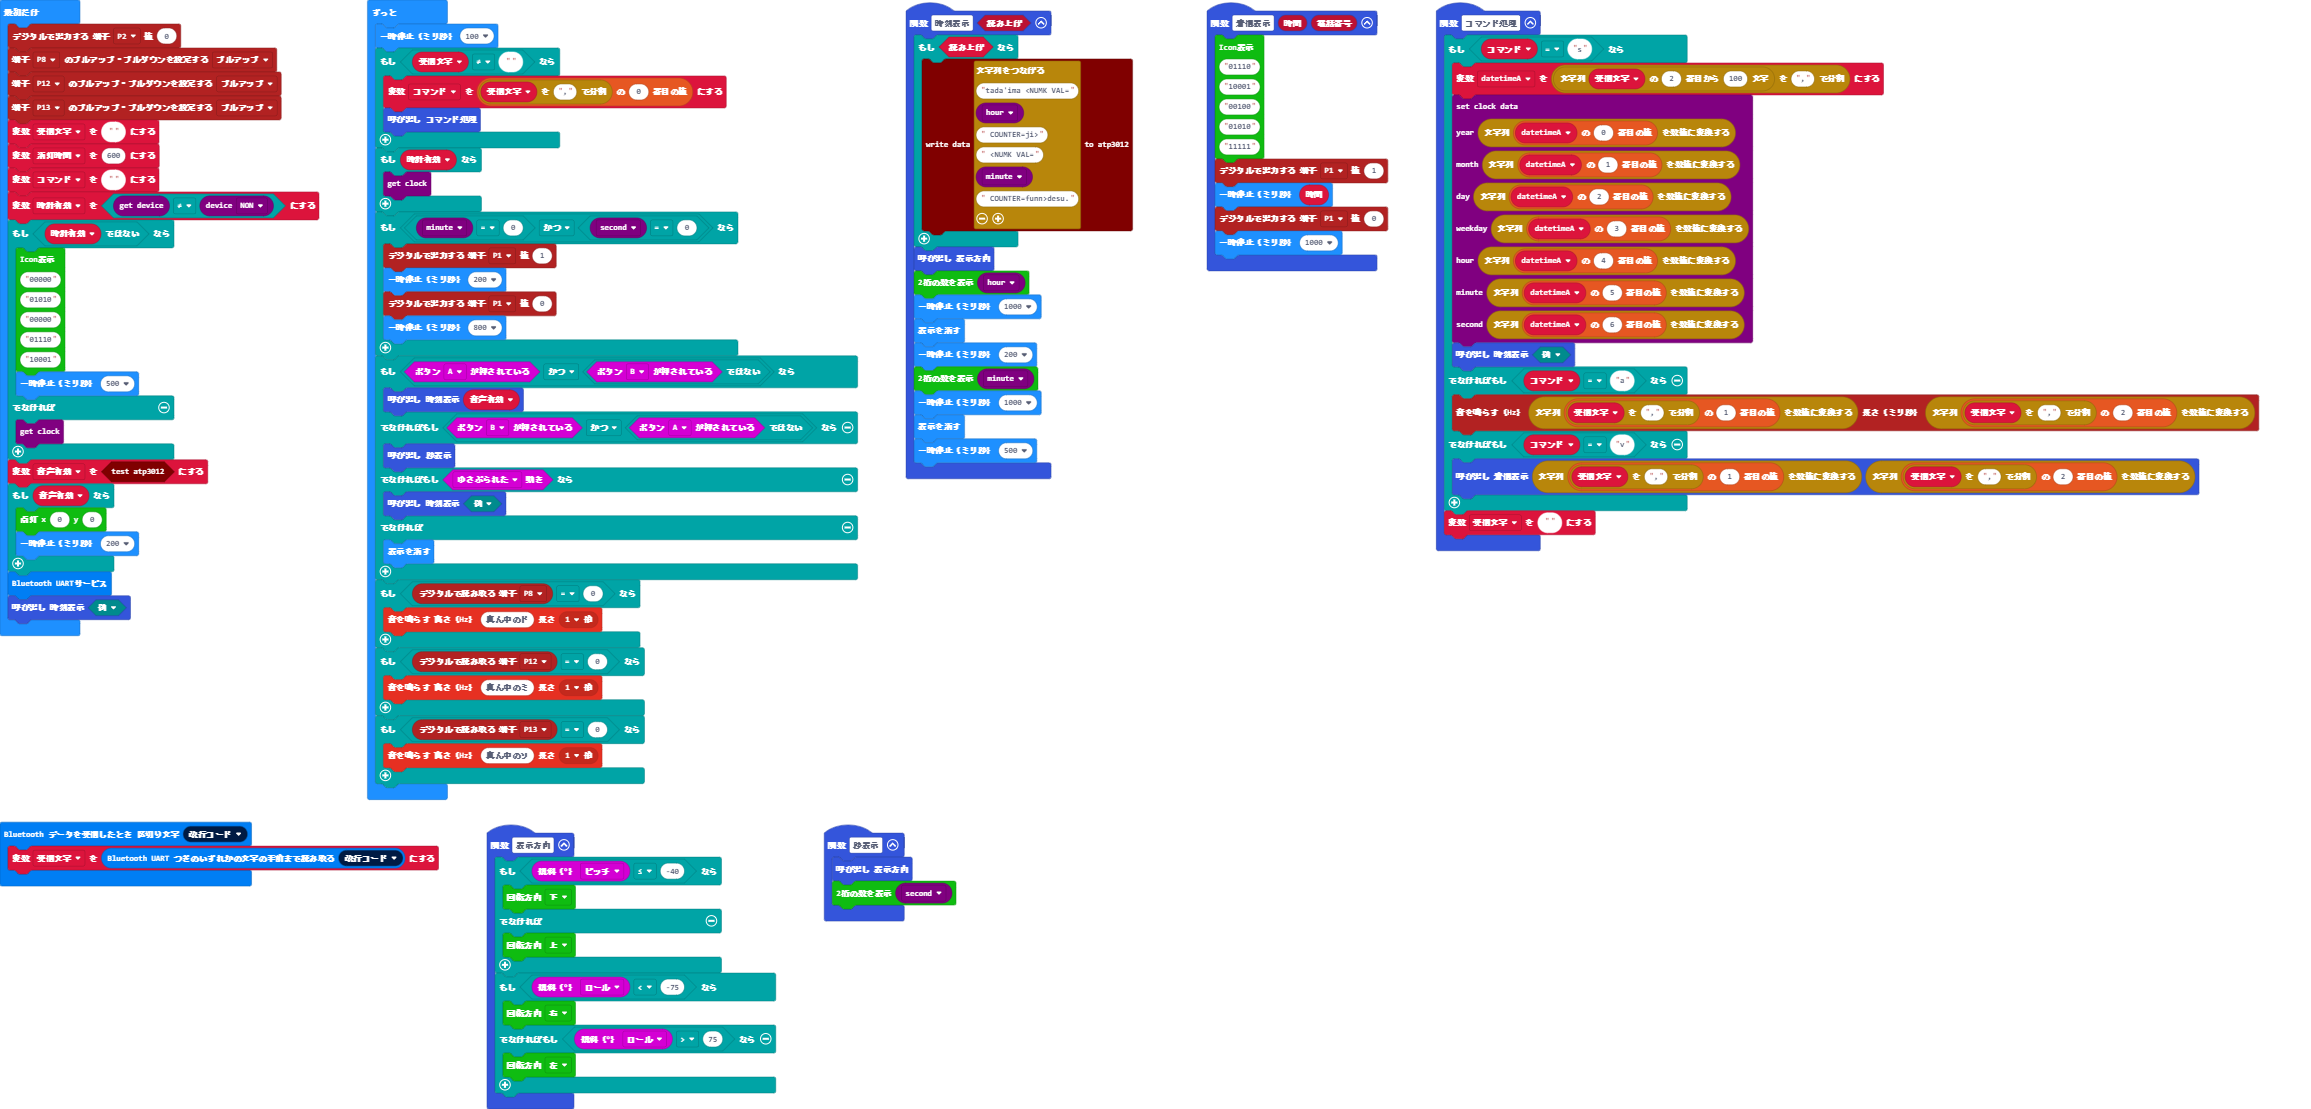
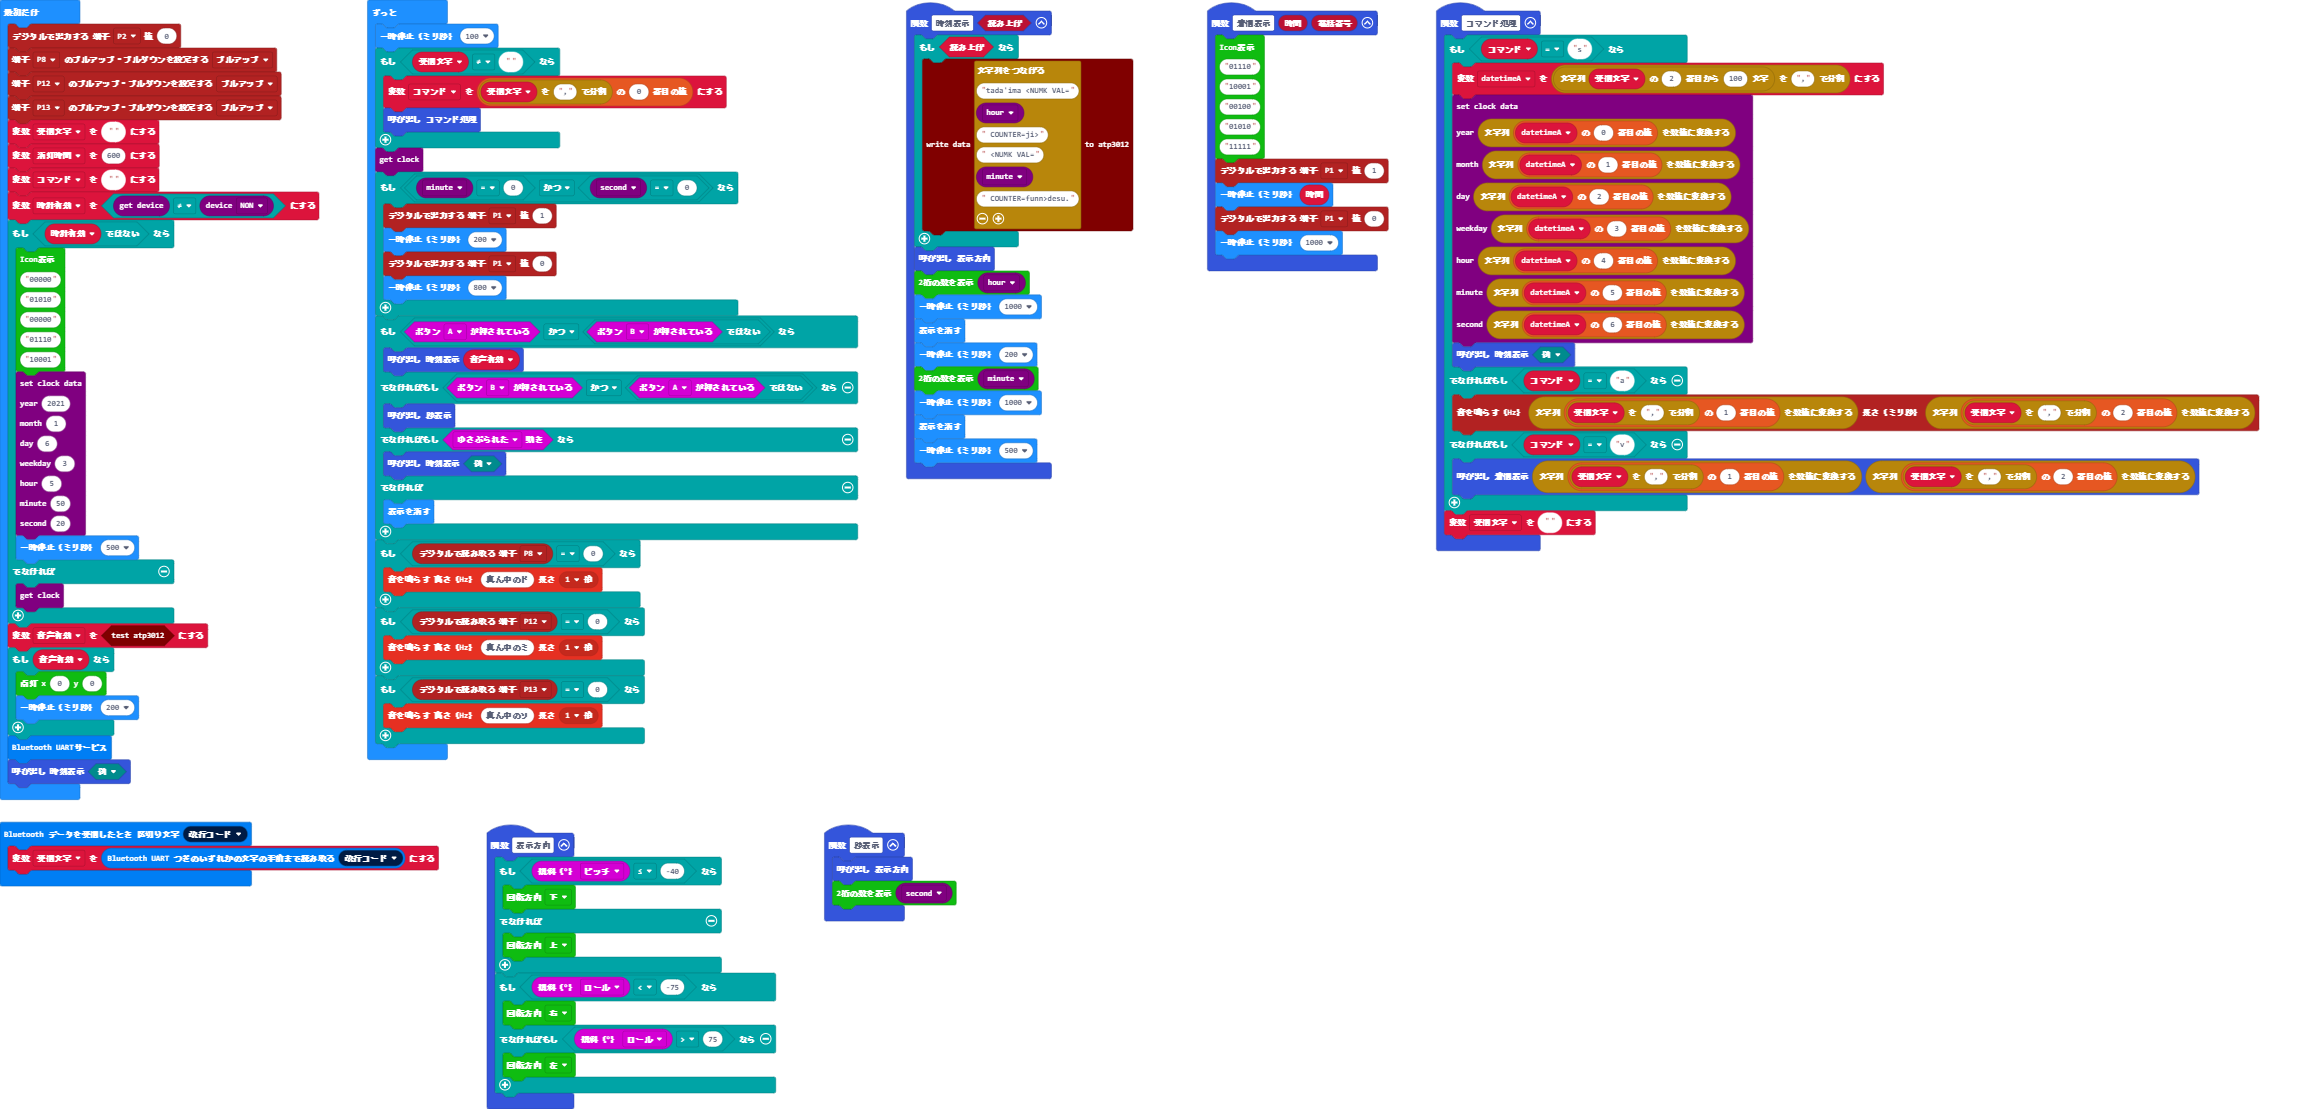
Update pxt.json, main.blocks, main.ts

Changed region(s): [[0.1558, 0.1226, 0.3739, 0.7358], [0.0, 0.3372, 0.0935, 0.7358]]

diff --git a/main.ts b/main.ts
@@ -83,6 +83,15 @@ if (!(時計有効)) {
     "01110",
     "10001"
     )
+    rtc.setClock(
+    2021,
+    1,
+    6,
+    3,
+    5,
+    50,
+    20
+    )
     basic.pause(500)
 } else {
     rtc.getClock()
@@ -100,9 +109,7 @@ basic.forever(function () {
         コマンド = 受信文字.split(",")[0]
         コマンド処理()
     }
-    if (時計有効) {
-        rtc.getClock()
-    }
+    rtc.getClock()
     if (rtc.getClockData(clockData.minute) == 0 && rtc.getClockData(clockData.second) == 0) {
         pins.digitalWritePin(DigitalPin.P1, 1)
         basic.pause(200)
